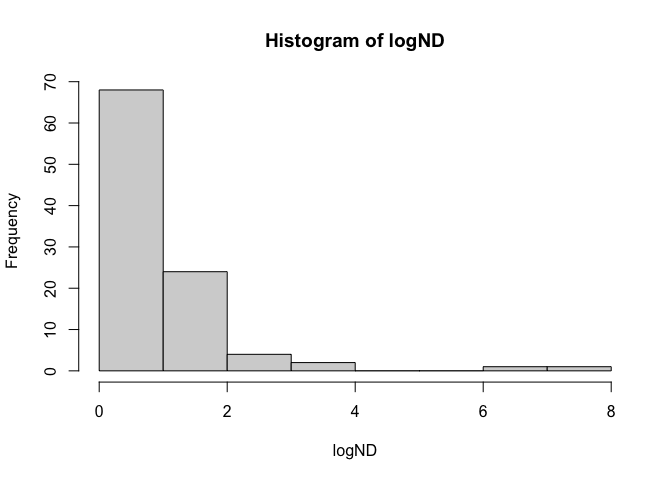
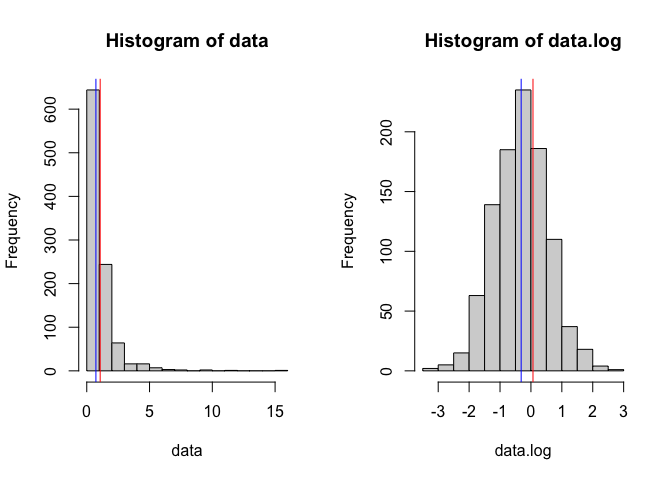
20220504

diff --git a/README.md b/README.md
@@ -22,11 +22,18 @@ devtools::install_github("kenyam1979/kyLogND")
 
 ## Utility functions in kyLogND
 
+  - histLogND
+  - rlnorm2
+  - convertLogToMean
+  - convertLogToSD
+
+<!-- end list -->
+
 ``` r
 library(kyLogND)
 
-logND <- rlnorm2(100)
-hist(logND)
+logND <- rlnorm2(1000)
+histLogND(logND)
 ```
 
 <img src="man/figures/README-example-1.png" width="100%" />
